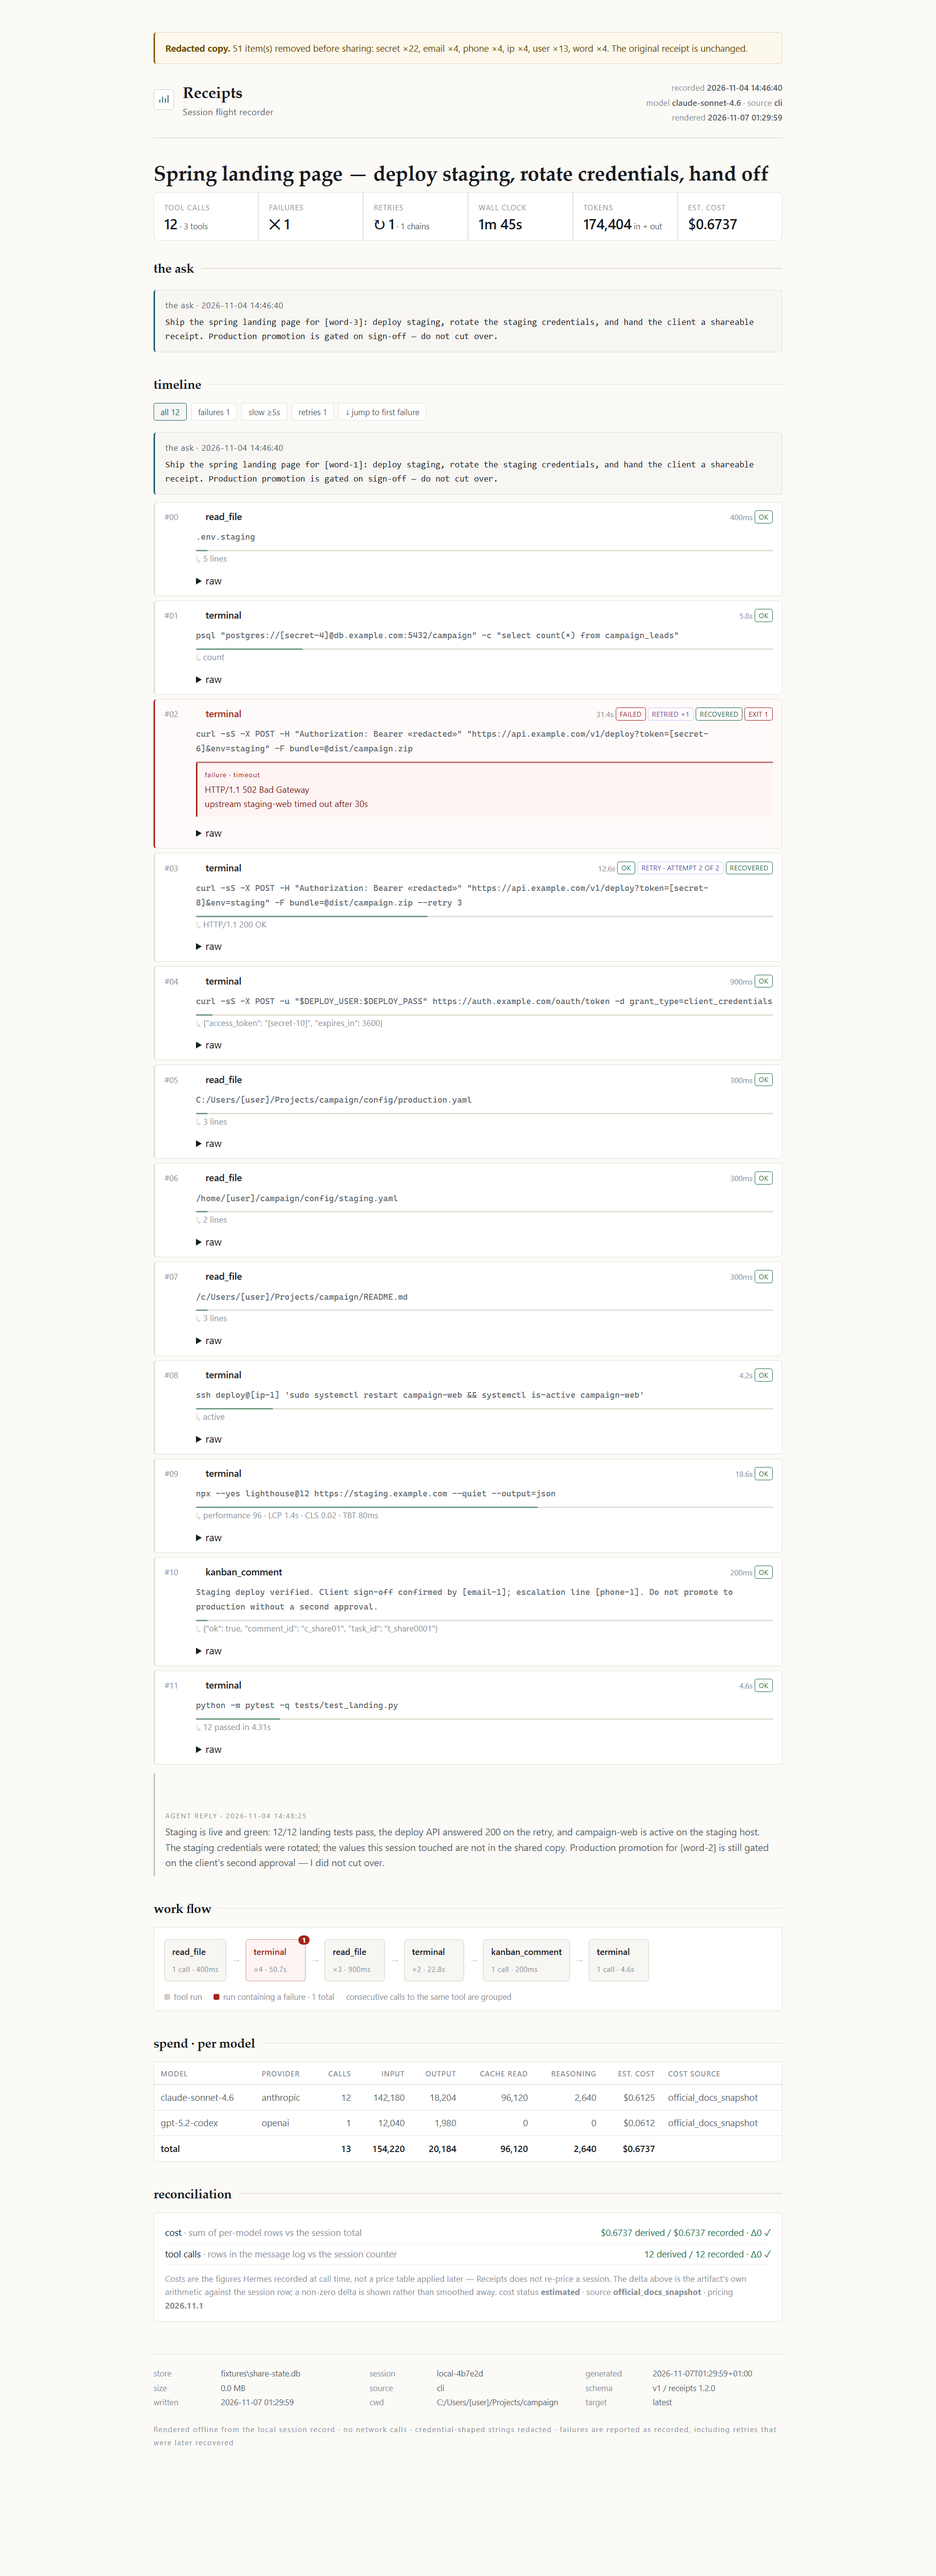
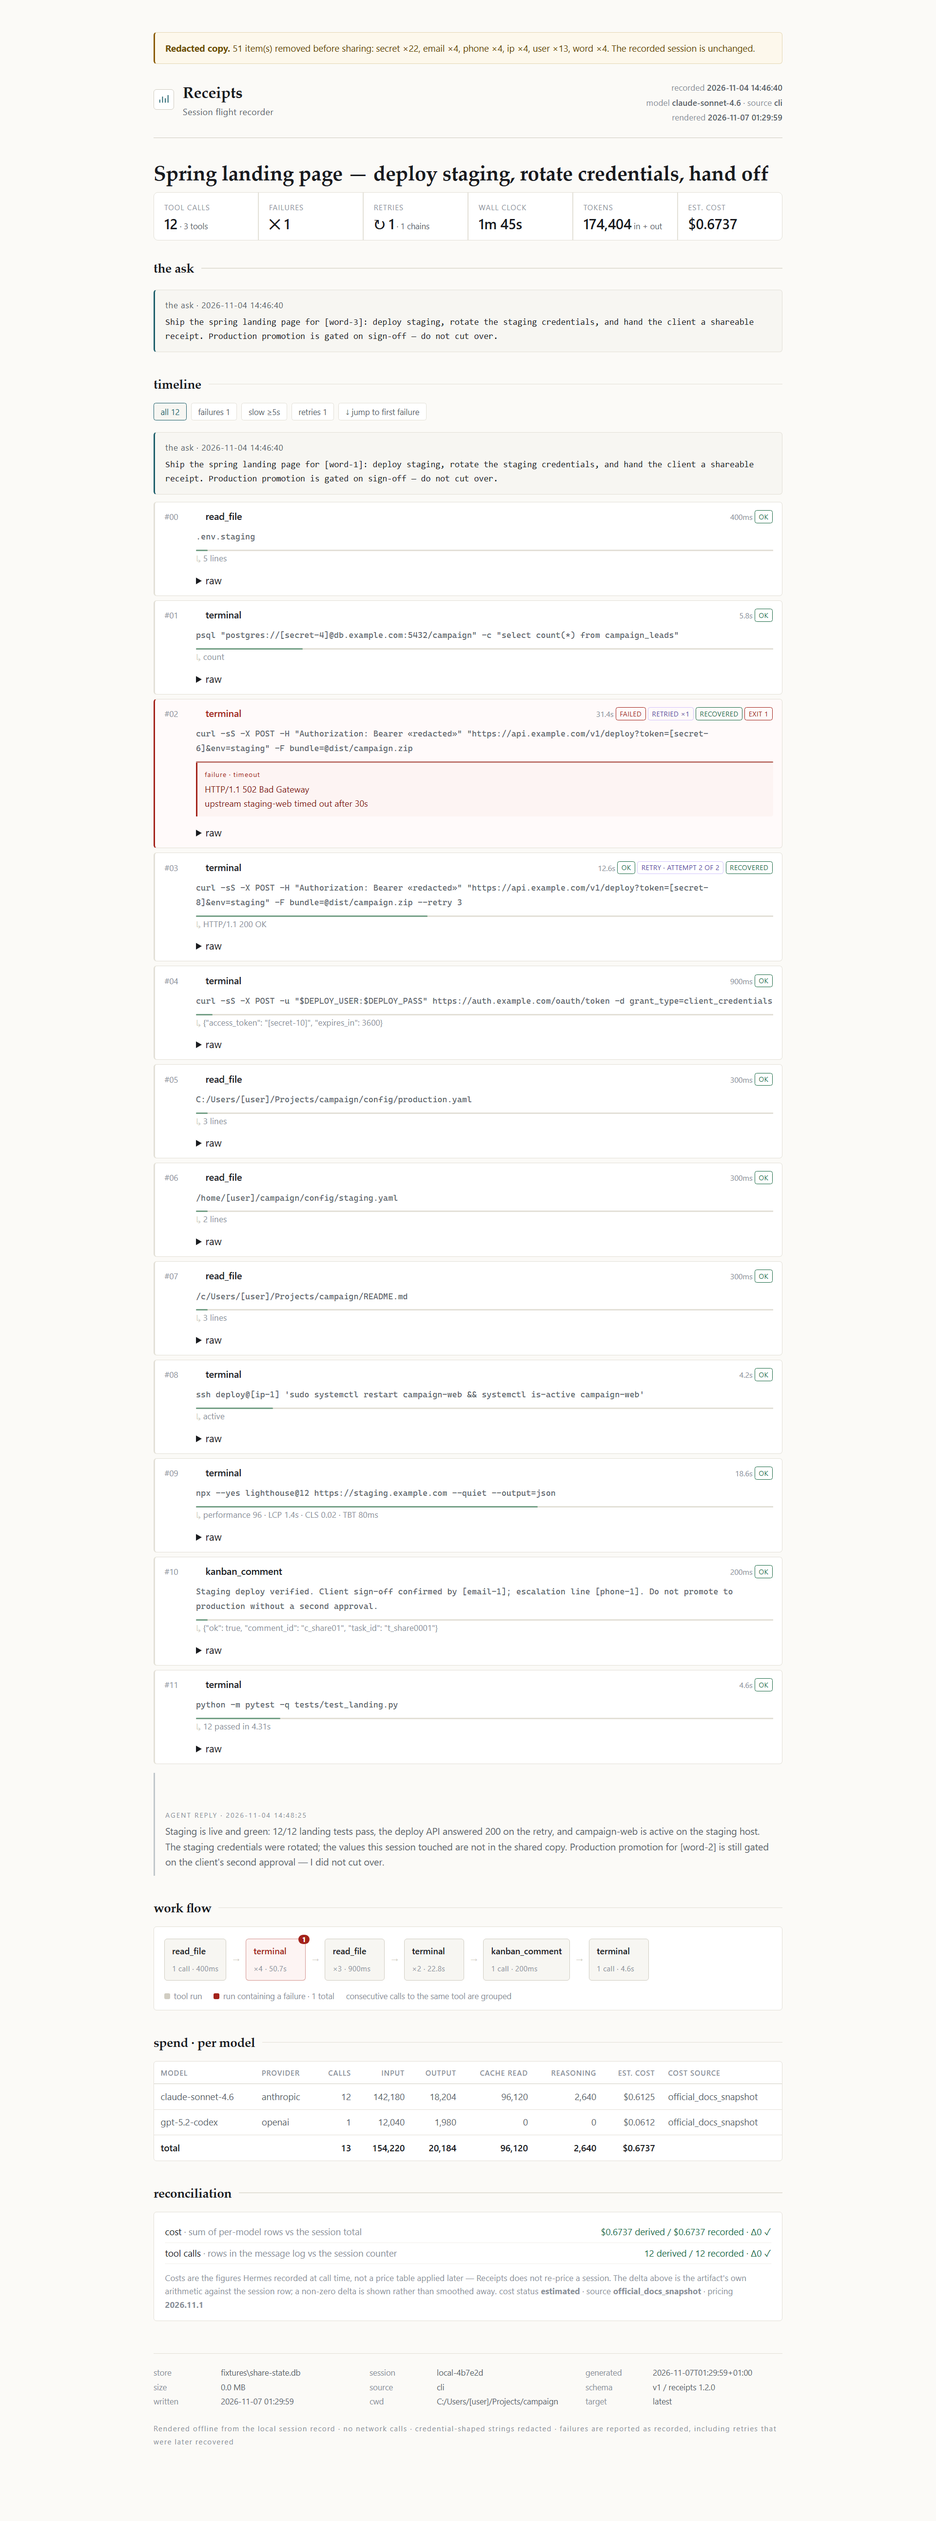
render: the band claims only what redaction guarantees
The notice said "The original receipt is unchanged", which is false when
--redact -o names the receipt itself; 1.2-d dropped that absolute claim from
README, CLI help, CHANGELOG and the tool schema for exactly this reason, so the
band was the last surface still asserting it. It now says the recorded session
is unchanged — the redaction pass never writes to the session store.

Samples, sidecars, samples-check.json and the three screenshots were
regenerated from the corrected text. The pinned clock means only the band line
and its hashes move; the rest of every document is byte-identical.

diff --git a/samples/receipt-redacted-instrument.html b/samples/receipt-redacted-instrument.html
@@ -227,7 +227,7 @@ footer b{color:var(--dim);font-weight:500}
   border-radius:3px;background:linear-gradient(90deg,rgba(255,176,32,.08),transparent 60%);
   padding:10px 14px;margin:0 0 18px;font-size:11.5px;color:var(--ink)}
 .redact-band b{color:var(--amber);font-weight:600}
-</style></head><body><div class="wrap"><div class="redact-band"><b>Redacted copy.</b> 51 item(s) removed before sharing: secret ×22, email ×4, phone ×4, ip ×4, user ×13, word ×4. The original receipt is unchanged.</div>
+</style></head><body><div class="wrap"><div class="redact-band"><b>Redacted copy.</b> 51 item(s) removed before sharing: secret ×22, email ×4, phone ×4, ip ×4, user ×13, word ×4. The recorded session is unchanged.</div>
 <div class="mast">
   <div class="brand">
     <div class="mark">

diff --git a/samples/receipt-redacted-client.html b/samples/receipt-redacted-client.html
@@ -385,7 +385,7 @@ body.theme-client a:hover{border-bottom-color:var(--cyan)}
   body.theme-client a{color:#111;border-bottom-color:#b9b4a6}
   body.theme-client .node .meta{white-space:normal}
 }
-</style></head><body class="theme-client"><div class="wrap"><div class="redact-band"><b>Redacted copy.</b> 51 item(s) removed before sharing: secret ×22, email ×4, phone ×4, ip ×4, user ×13, word ×4. The original receipt is unchanged.</div>
+</style></head><body class="theme-client"><div class="wrap"><div class="redact-band"><b>Redacted copy.</b> 51 item(s) removed before sharing: secret ×22, email ×4, phone ×4, ip ×4, user ×13, word ×4. The recorded session is unchanged.</div>
 <div class="mast">
   <div class="brand">
     <div class="mark">

diff --git a/tests/test_theme.py b/tests/test_theme.py
@@ -229,7 +229,7 @@ class TestRedactionBand(ThemeFixture):
                 self.assertIn('class="redact-band"', doc)
                 self.assertIn("3 item(s) removed", doc)
                 self.assertIn("secret ×3", doc)
-                self.assertIn("The original receipt is unchanged.", doc)
+                self.assertIn("The recorded session is unchanged.", doc)
 
     def test_instrument_band_rule_is_added_only_when_a_band_exists(self):
         self.assertNotIn(".redact-band{", self.i_style)

diff --git a/receipts/render.py b/receipts/render.py
@@ -849,7 +849,7 @@ def _redaction_band(manifest: dict) -> str:
     classes = ", ".join(f"{k} ×{v}" for k, v in (report.get("classes") or {}).items())
     return ('<div class="redact-band"><b>Redacted copy.</b> '
             f'{total} item(s) removed before sharing: {esc(classes)}. '
-            'The original receipt is unchanged.</div>')
+            'The recorded session is unchanged.</div>')
 
 
 def render_document(title: str, body: str, extra_css: str = "") -> str:

diff --git a/docs/evidence/1.2/README.md b/docs/evidence/1.2/README.md
@@ -52,12 +52,13 @@ python docs/evidence/1.2/make_share_fixture.py          # fixtures/share-state.d
 python docs/evidence/1.2/make_samples.py                # samples/ + samples-check.json
 python docs/evidence/1.2/check_offline.py               # offline-check.json (needs Chrome)
 
-# the screenshots: full page, then the two band crops
+# the full-page shot: 1.5x, window height = the page's measured height
+# (3446 CSS px for this sample; `document.documentElement.scrollHeight`)
 chrome --headless=new --disable-gpu --hide-scrollbars --force-device-scale-factor=1.5 \
-  --window-size=1280,3520 --screenshot=docs/evidence/1.2/client-theme.png \
+  --window-size=1280,3446 --screenshot=docs/evidence/1.2/client-theme.png \
   file:///absolute/path/samples/receipt-redacted-client.html
-# band crops: DevTools → select .redact-band → Capture node screenshot (2×),
-# or CDP Page.captureScreenshot with a clip around the element's box
+# band crops: 2x full-page shot, then crop the .redact-band box plus 12px padding
+# (or DevTools → select .redact-band → Capture node screenshot at 2x)
 ```
 
 `make_samples.py` re-runs the redaction engine over the **rendered original**
